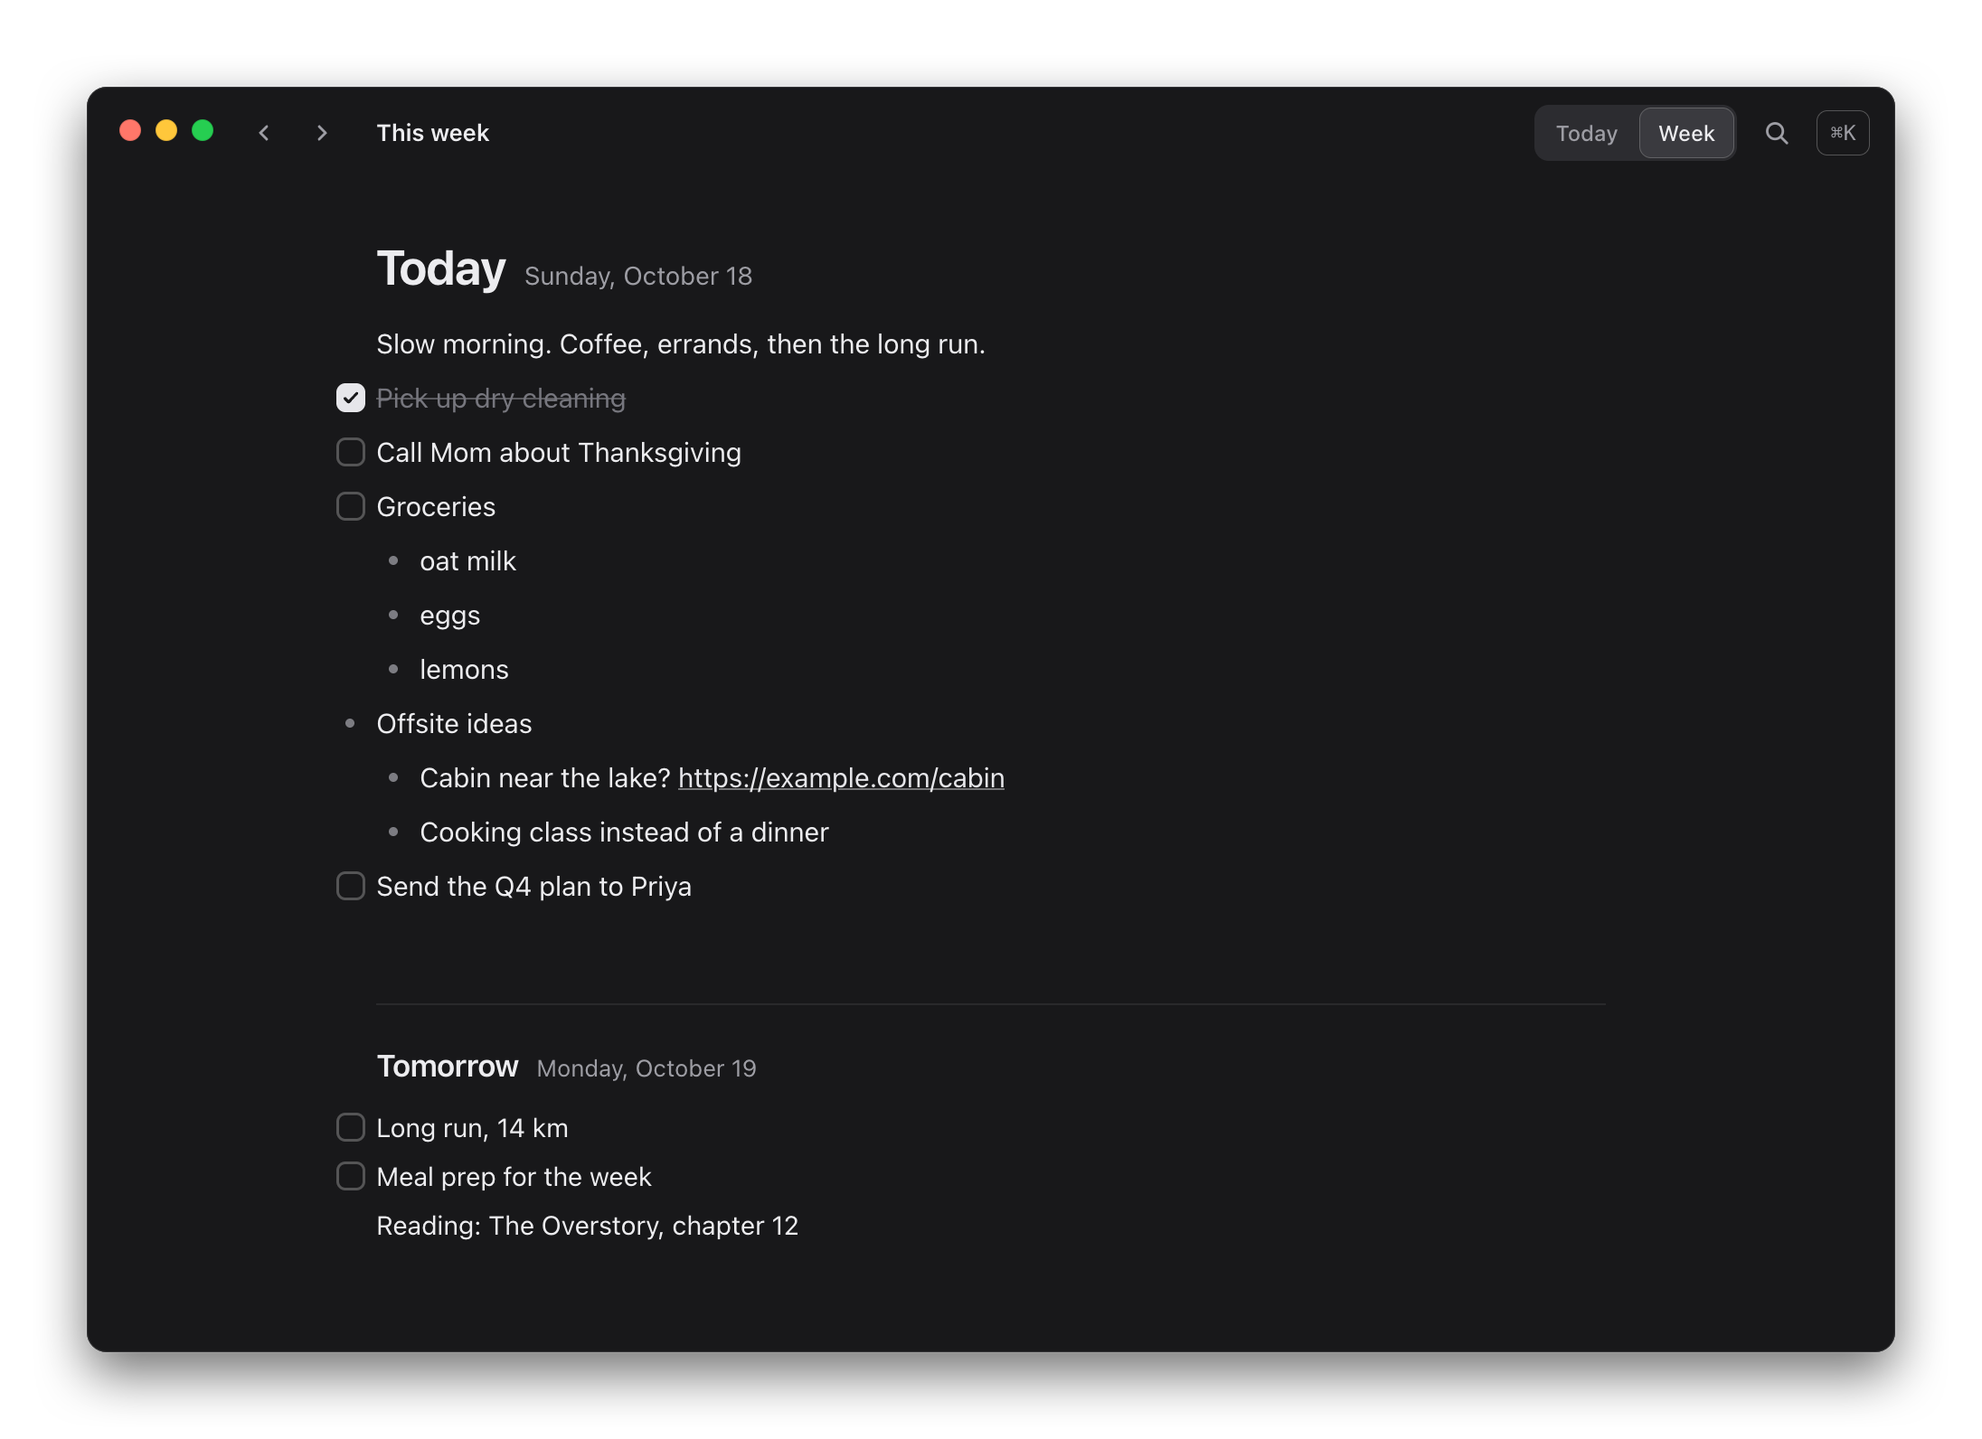
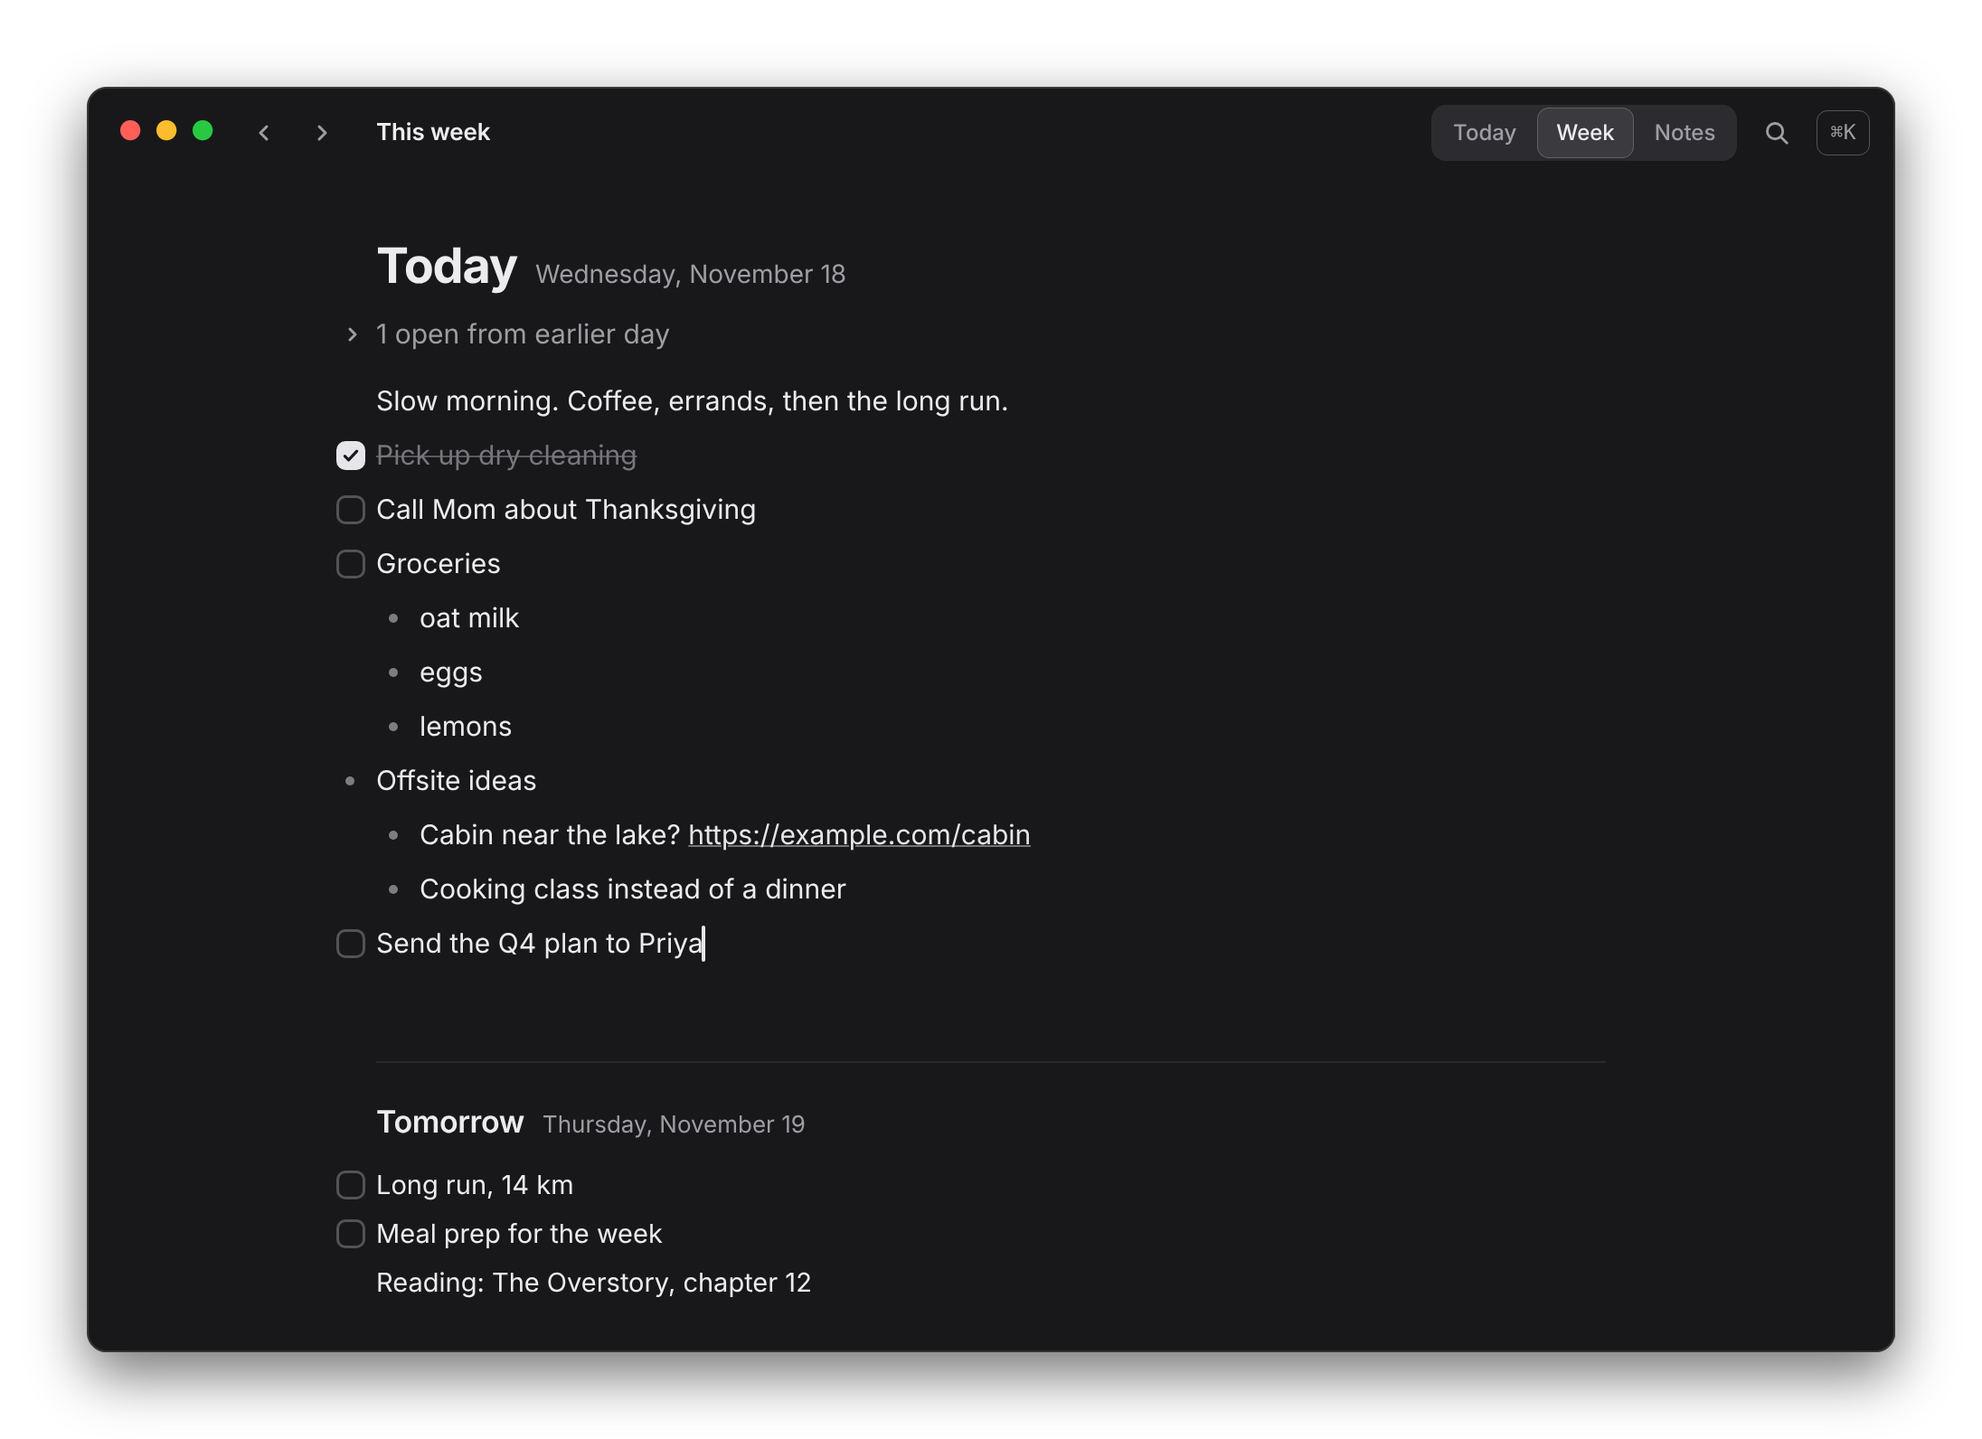
Docs and site: screenshots of the app after the design pass
- README: all nine Mac screenshots taken again from the current app, so the
  calendar, the notes strip and the Notes tab are as they are now. The
  screenshot script runs off a Mac too, framing with Pillow (frame.py).
- Site: the home page's Mac window from the new week screenshots, and its
  iPhone drawn in the new layout (tabs at the bottom, links and settings at
  the top, no dots) by phone-shots.py.
- Drop the images that were only there for the design pass's pull request.
- App Store images are left as uploaded for 1.0; their README says what has
  changed since.

Claude-Session: https://claude.ai/code/session_01SRNd5yz3TtXfrfcuCyPxKS

diff --git a/site/index.html b/site/index.html
@@ -360,7 +360,7 @@ footer .symbol:hover .line { animation: write .7s steps(3, end); }
       <picture>
         <source media="(prefers-color-scheme: dark)" srcset="images/phone-dark.webp">
         <img src="images/phone-light.webp" width="660" height="1434"
-          alt="The same notes and to-dos on the iPhone, with the week along the top">
+          alt="The same notes and to-dos on the iPhone, with the week along the top and the Today and Notes tabs at the bottom">
       </picture>
       <span class="island" aria-hidden="true"></span>
     </div>

diff --git a/apps/desktop/scripts/phone-shots.py b/apps/desktop/scripts/phone-shots.py
@@ -1,24 +1,33 @@
 """
-Writes the home page's iPhone shot, light and dark (Pillow).
+Writes the home page's iPhone shot, light and dark (Pillow, Playwright and a Chrome or
+Chromium).
 
     python3 apps/desktop/scripts/phone-shots.py
 
-The light one is the App Store screen `brand/app-store/screens/08-mac.png`, which
-holds the same day as the Mac window beside it on the page, at half size.
+The phone holds the same day as the Mac window behind it on the page
+(`scripts/screenshots.mjs`), so when that day's lines change, change `LINES` here too.
 
-There is no dark screenshot of that day, and the screens can only be captured on a
-Mac, so the dark one is derived from the light one. The iPhone app's screens are
-grey from end to end, so going light to dark is one tone curve per channel, and the
-curve is measured rather than guessed: `01-today.png` and `07-dark.png` share their
-status bar, month label and weekday letters pixel for pixel, so pairing those rows
-gives the app's own light-to-dark mapping. It lands on the brand tokens exactly
-(#1C1C1E → #ECECEF, #6C6C72 → #9D9DA4, #8E8E94 → #76767D), and on the rows it was
-not fitted on it matches the real dark screenshot within 8/255 for 94% of pixels —
-the rest being the two days' different content, not the curve.
+There is no capture of that day on a phone: the screens can only be captured on a Mac.
+So the light one is laid out in HTML from the app's own styles by
+`brand/app-store/page.py`, which says how, and what it takes pixel for pixel from the App
+Store screens. This adds what the app has gained since those screens: a top bar with
+only links and settings, a week strip without dots, and the tabs at the bottom
+(`apps/mobile/src/ui/Header.tsx`, `ui/TabBar.tsx`). The tabs' glass is drawn as a plain
+translucent capsule, and SF Symbols' sun is drawn by hand, as `page.py` draws the note.
 
-Capture a real dark screenshot of the day and this can go.
+The dark one is derived from the light one. The iPhone app's screens are grey from end
+to end, so going light to dark is one tone curve per channel, and the curve is measured
+rather than guessed: `01-today.png` and `07-dark.png` share their status bar, month
+label and weekday letters pixel for pixel, so pairing those rows gives the app's own
+light-to-dark mapping. It lands on the brand tokens exactly (#1C1C1E → #ECECEF,
+#6C6C72 → #9D9DA4, #8E8E94 → #76767D), and on the rows it was not fitted on it matches
+the real dark screenshot within 8/255 for 94% of pixels — the rest being the two days'
+different content, not the curve.
+
+Capture real screenshots of the day, light and dark, and all of this can go.
 """
 import os
+import sys
 
 import numpy as np
 from PIL import Image
@@ -29,7 +38,37 @@ ROOT = os.path.abspath(os.path.join(os.path.dirname(os.path.abspath(__file__)), 
 SCREENS = os.path.join(ROOT, 'brand', 'app-store', 'screens')
 OUT = os.path.join(ROOT, 'site', 'images')
 
-SOURCE = '08-mac.png'
+sys.path.insert(0, os.path.join(ROOT, 'brand', 'app-store'))
+import page  # noqa: E402
+from page import BUTTON, C, GUTTER, NATURAL, SYMBOL  # noqa: E402
+
+# The iPhone 17 Pro Max, as the App Store screens are: 440 × 956 pt, with 34 pt under
+# the home indicator.
+WIDTH, HEIGHT, INSET_BOTTOM = 440, 956, 34
+
+# The day in the Mac window (scripts/screenshots.mjs): (depth, kind, text).
+MONTH = 'November 2026'
+WEEK = [('M', 16), ('T', 17), ('W', 18), ('T', 19), ('F', 20), ('S', 21), ('S', 22)]
+TODAY = 18
+SUBTITLE = 'Wednesday, November 18'
+EARLIER = '1 open from earlier day'
+LINES = [
+    (0, 'text', 'Slow morning. Coffee, errands, then the long run.'),
+    (0, 'done', 'Pick up dry cleaning'),
+    (0, 'todo', 'Call Mom about Thanksgiving'),
+    (0, 'todo', 'Groceries'),
+    (1, 'bullet', 'oat milk'),
+    (1, 'bullet', 'eggs'),
+    (1, 'bullet', 'lemons'),
+    (0, 'bullet', 'Offsite ideas'),
+    (1, 'bullet', 'Cabin near the lake? https://example.com/cabin'),
+    (1, 'bullet', 'Cooking class instead of a dinner'),
+    (0, 'todo', 'Send the Q4 plan to Priya'),
+]
+
+# The tabs (ui/TabBar.tsx): a 56 pt capsule of two 84 pt tabs, and search in a circle.
+BAR, TAB, PADDING = 56, 84, 4
+
 SCALE = 0.5
 QUALITY = 86
 
@@ -71,6 +110,87 @@ def tone_curve(light, dark, channel):
     return np.clip(np.round(curve), 0, 255).astype(np.uint8)
 
 
+def header(p, top):
+    """The bar (ui/Header.tsx): the month, then links and settings."""
+    bar, mid = top + 2, top + 24
+    month, year = MONTH.split(' ')
+    chevron = page.piece('chevron.down')
+    p.add(f'<div class="bar" style="top:{bar}px">{page.t(month)}'
+          f'<span class="t" style="color:{C["text3"]}">&nbsp;{year}</span>'
+          f'<img src="{page.png_uri(chevron)}" alt="" style="width:{chevron.width / page.SCALE:.3f}px;'
+          f'height:{chevron.height / page.SCALE:.3f}px;margin-left:6px"></div>')
+    right = p.width - (GUTTER - (BUTTON - SYMBOL) / 2)
+    settings, links = right - BUTTON / 2, right - BUTTON / 2 - (BUTTON + 4)
+    link = page.link_symbol(58)
+    p.add(page.placed(link, links - link.width / page.SCALE / 2, mid - link.height / page.SCALE / 2))
+    p.add(page.at_button('settings', settings, mid))
+    return bar + 44
+
+
+def week(p, top):
+    """The week strip: the open day solid, and no dots."""
+    inset = max(0, (GUTTER + 17 - p.width / 14) * 7 / 6)
+    cells = ''.join(
+        f'<div class="day"><div class="wd" style="color:{C["text"] if n == TODAY else C["text2"]}">{page.t(letter)}</div>'
+        f'<div class="num" style="{f"background:{C['accent']};color:{C['onAccent']};font-weight:700" if n == TODAY else ""}">'
+        f'{page.t(n)}</div></div>'
+        for letter, n in WEEK)
+    p.add(f'<div class="week" style="left:{inset}px;right:{inset}px;top:{top}px">{cells}</div>')
+    # 4 + the letter + 4 + the circle + 4, and 8 below.
+    return top + 4 + 11 * NATURAL + 4 + 34 + 4 + 8
+
+
+def sun_symbol(size, stroke, color):
+    """SF Symbols' sun.max: a disc and eight rays. `size` is the ink's height in CSS pixels."""
+    rays = ''.join(f'<path d="M12 2.2V4.6" transform="rotate({45 * i} 12 12)"/>' for i in range(8))
+    return (f'<svg width="{size}" height="{size}" viewBox="1.2 1.2 21.6 21.6" fill="none" stroke="{color}" '
+            f'stroke-width="{stroke * 21.6 / size:.3f}" stroke-linecap="round"><circle cx="12" cy="12" r="4.3"/>{rays}</svg>')
+
+
+def search_symbol():
+    """The header's magnifying glass from the App Store screens, in the text's color."""
+    grey = page.piece('search').convert('L')
+    paper, ink = 255, 108
+    alpha = grey.point(lambda v: max(0, min(255, round((paper - v) * 255 / (paper - ink)))))
+    symbol = Image.new('RGBA', alpha.size, C['text'])
+    symbol.putalpha(alpha)
+    return symbol
+
+
+def tab_bar(p):
+    """Today, lit, and Notes in one capsule; search in its own (ui/TabBar.tsx)."""
+    surface = ('background:rgba(255,255,255,0.86);box-shadow:0 0 0 0.5px rgba(0,0,0,0.1),'
+               '0 6px 18px -4px rgba(0,0,0,0.16);')
+    label = "font:{w} 10.5px/1.193 '" + page.TEXT + "';letter-spacing:0.1px;color:{c}"
+    tab = ('width:%dpx;height:%dpx;border-radius:%dpx;display:flex;flex-direction:column;align-items:center;'
+           'justify-content:center;gap:2px;' % (TAB, BAR - 2 * PADDING, (BAR - 2 * PADDING) // 2))
+    today = (f'<div style="{tab}background:rgba(44,44,49,0.1)">{sun_symbol(21, 1.9, C["text"])}'
+             f'<div style="{label.format(w=600, c=C["text"])}">Today</div></div>')
+    notes = (f'<div style="{tab}">{page.note_symbol(19, 1.6, C["text2"])}'
+             f'<div style="{label.format(w=500, c=C["text2"])}">Notes</div></div>')
+    bottom = max(INSET_BOTTOM - 12, 12)
+    top = p.height - bottom - BAR
+    p.add(f'<div style="position:absolute;left:{GUTTER}px;top:{top}px;height:{BAR}px;border-radius:{BAR // 2}px;'
+          f'padding:{PADDING}px;display:flex;gap:2px;{surface}">{today}{notes}</div>')
+    p.add(f'<div style="position:absolute;left:{p.width - GUTTER - BAR}px;top:{top}px;width:{BAR}px;height:{BAR}px;'
+          f'border-radius:{BAR // 2}px;{surface}"></div>')
+    glass = search_symbol()
+    p.add(page.placed(glass, p.width - GUTTER - BAR / 2 - glass.width / page.SCALE / 2,
+                      top + BAR / 2 - glass.height / page.SCALE / 2, style='mix-blend-mode:multiply'))
+
+
+def screen(browser):
+    p = page.Page(WIDTH, HEIGHT)
+    y = p.iphone_status()
+    y = header(p, y)
+    y = week(p, y)
+    y = p.day_head(y, 'Today', SUBTITLE)
+    y = p.loose_ends(y, EARLIER)
+    p.lines(y, LINES)
+    tab_bar(p)
+    return page.render_page(browser, p)
+
+
 def read(name):
     return np.asarray(Image.open(os.path.join(SCREENS, name)).convert('RGB'), dtype=np.uint8)
 
@@ -84,7 +204,8 @@ def write(pixels, name):
     print(f'{os.path.relpath(path, ROOT)}  {size[0]} × {size[1]}  {os.path.getsize(path) // 1024} KB')
 
 
-light = read(SOURCE)
+with page.chrome() as browser:
+    light = np.asarray(screen(browser), dtype=np.uint8)
 curves = [tone_curve(read('01-today.png'), read('07-dark.png'), channel) for channel in range(3)]
 dark = np.stack([curves[channel][light[:, :, channel]] for channel in range(3)], axis=2)
 

diff --git a/apps/desktop/scripts/frame.py b/apps/desktop/scripts/frame.py
@@ -1,0 +1,60 @@
+"""
+Wraps a 2x page screenshot in a macOS-style window frame for docs (Pillow).
+
+    python3 scripts/frame.py <in.png> <out.png> [light|dark]
+
+The same drawing as scripts/frame.swift, for machines without Swift:
+`pnpm screenshots` uses that one on a Mac and this one everywhere else. Keep the
+two in step: 96 px of padding, a 22 px corner, a soft shadow below, the traffic
+lights where the app puts them, and a hairline edge.
+"""
+import sys
+
+from PIL import Image, ImageDraw, ImageFilter
+
+PAD, RADIUS, SS = 96, 22, 4
+
+
+def rounded(size, box, radius, fill, outline=None, width=0):
+    """A rounded rectangle on a transparent layer, drawn large and scaled down so its edge is smooth."""
+    layer = Image.new('RGBA', (size[0] * SS, size[1] * SS), (0, 0, 0, 0))
+    ImageDraw.Draw(layer).rounded_rectangle([v * SS for v in box], radius * SS, fill=fill, outline=outline, width=width * SS)
+    return layer.resize(size, Image.LANCZOS)
+
+
+def frame(source, target, dark):
+    content = Image.open(source).convert('RGBA')
+    w, h = content.size
+    size = (w + PAD * 2, h + PAD * 2)
+    window = (PAD, PAD, PAD + w, PAD + h)
+    out = Image.new('RGBA', size, (0, 0, 0, 0))
+
+    # The shadow: the window's shape, 24 px down, blurred.
+    alpha = int(255 * (0.55 if dark else 0.22))
+    shadow = rounded(size, (PAD, PAD + 24, PAD + w, PAD + h + 24), RADIUS, (0, 0, 0, alpha))
+    out.alpha_composite(shadow.filter(ImageFilter.GaussianBlur(30)))
+
+    # The page, clipped to the window's corners.
+    mask = rounded(size, window, RADIUS, (255, 255, 255, 255)).getchannel('A')
+    page = Image.new('RGBA', size, (0, 0, 0, 0))
+    page.paste(content, (PAD, PAD))
+    lights = Image.new('RGBA', (size[0] * SS, size[1] * SS), (0, 0, 0, 0))
+    draw = ImageDraw.Draw(lights)
+    # Traffic lights at the app's configured position (18 pt, 18 pt), 12 pt buttons, 2x scale.
+    for i, color in enumerate([(255, 95, 87), (254, 188, 46), (40, 200, 64)]):
+        x, y = PAD + 36 + i * 40, PAD + 36
+        draw.ellipse([x * SS, y * SS, (x + 24) * SS, (y + 24) * SS], fill=color + (255,), outline=(0, 0, 0, 31), width=SS)
+    page.alpha_composite(lights.resize(size, Image.LANCZOS))
+    page.putalpha(Image.composite(page.getchannel('A'), Image.new('L', size, 0), mask))
+    out.alpha_composite(page)
+
+    # Hairline edge, like a real window.
+    edge = (255, 255, 255, 31) if dark else (0, 0, 0, 36)
+    out.alpha_composite(rounded(size, window, RADIUS, None, outline=edge, width=2))
+    out.save(target)
+
+
+if __name__ == '__main__':
+    if len(sys.argv) < 3:
+        sys.exit('usage: frame.py in.png out.png [light|dark]')
+    frame(sys.argv[1], sys.argv[2], len(sys.argv) > 3 and sys.argv[3] == 'dark')

diff --git a/site/README.md b/site/README.md
@@ -49,7 +49,8 @@ outlined wordmark, the favicons and `site.webmanifest` (`brand/web`), and the so
 (`brand/social`). `images/og.mp4` is that same card writing itself; regenerate it with
 `pnpm og-video`, which needs ffmpeg. Newsreader, for headlines only, is served from `fonts/`
 (its Latin subset, SIL OFL), so the site makes no requests to anyone else; body text uses the
-system font. The Mac window on the home page is `docs/images/week-*.png` as WebP:
+system font. The Mac window on the home page is `docs/images/week-*.png` (written by `pnpm
+screenshots` in `apps/desktop`) as WebP:
 
 ```sh
 cwebp -q 86 docs/images/week-light.png -o site/images/week-light.webp
@@ -58,11 +59,13 @@ cwebp -q 86 docs/images/week-dark.png -o site/images/week-dark.webp
 
 The iPhone in front of it is `images/phone-*.webp`, holding the same notes and to-dos as the
 window behind it, in a frame the page draws in CSS. Both come from `python3
-apps/desktop/scripts/phone-shots.py`, which takes the App Store screen
-[`brand/app-store/screens/08-mac.png`](../brand/app-store/screens/08-mac.png) and, since that day
-was only ever captured in light, derives the dark one from it with the app's own
+apps/desktop/scripts/phone-shots.py`. There is no capture of that day on a phone, so the
+script lays the screen out from the app's own styles, the way
+[`brand/app-store/page.py`](../brand/app-store/page.py) lays out the App Store's Notes screen,
+with the tabs at the bottom, and derives the dark one from the light one with the app's own
 light-to-dark tone curve. That script's docstring has the details, and says what to delete
-once there is a real dark screenshot of the day.
+once there are real screenshots of the day. When the day in the Mac window changes, change
+the script's lines to match.
 
 ## Being found, by people and by assistants
 

diff --git a/brand/app-store/README.md b/brand/app-store/README.md
@@ -27,10 +27,14 @@ Portrait, in upload order, at both of the iPhone sizes App Store Connect asks fo
 `screens/` holds the plain screenshots, and `store/` and `store-6.3/` the images to
 upload — the same nine at two sizes, all PNGs without alpha. App Store Connect takes up
 to ten per size. Rebuild `overview.png` above with `python3 brand/app-store/overview.py`.
-`screens/08-mac.png` has a second job: it is also the iPhone on the website's home page,
-and `screens/01-today.png` and `screens/07-dark.png` are what the dark version of it is
-derived from (`apps/desktop/scripts/phone-shots.py`), so changing those three changes the
-site too.
+Three of the screens have a second job on the website's home page: its iPhone
+(`apps/desktop/scripts/phone-shots.py`) takes its status bar and symbols from
+`screens/01-today.png`, and measures its dark version from `screens/01-today.png` and
+`screens/07-dark.png`, so changing those changes the site too.
+
+These images show the app as it was at 1.0. Since then Today, Notes and search have moved
+to tabs at the bottom, the top bar holds only links and settings, and the week strip and
+calendar have lost their dots; the screens need capturing again before the next upload.
 
 - **`store-6.3/`, 1206 × 2622.** The slot for 6.1" and 6.3" displays, which is the one
   Apple requires of an iPhone app. It takes 1179 × 2556 or 1206 × 2622 and nothing else,

diff --git a/README.md b/README.md
@@ -34,7 +34,7 @@ tomorrow (⌘D) or any date (⇧⌘M, which offers the day you picked last first
 lines to act on them together.
 
 <p align="center">
-  <img src="docs/images/move-to-date.png" alt="Move to, opened with ⇧⌘M: the to-do being moved at the top, &quot;fri&quot; read as Fri, Nov 13 (tomorrow), and a calendar alongside" width="80%">
+  <img src="docs/images/move-to-date.png" alt="Move to, opened with ⇧⌘M: the to-do being moved at the top, &quot;fri&quot; read as the coming Friday, and a calendar alongside with today ringed and Friday picked" width="80%">
 </p>
 
 **Notes.** For what doesn't belong to a day: one scratch page to paste and edit something you'll
